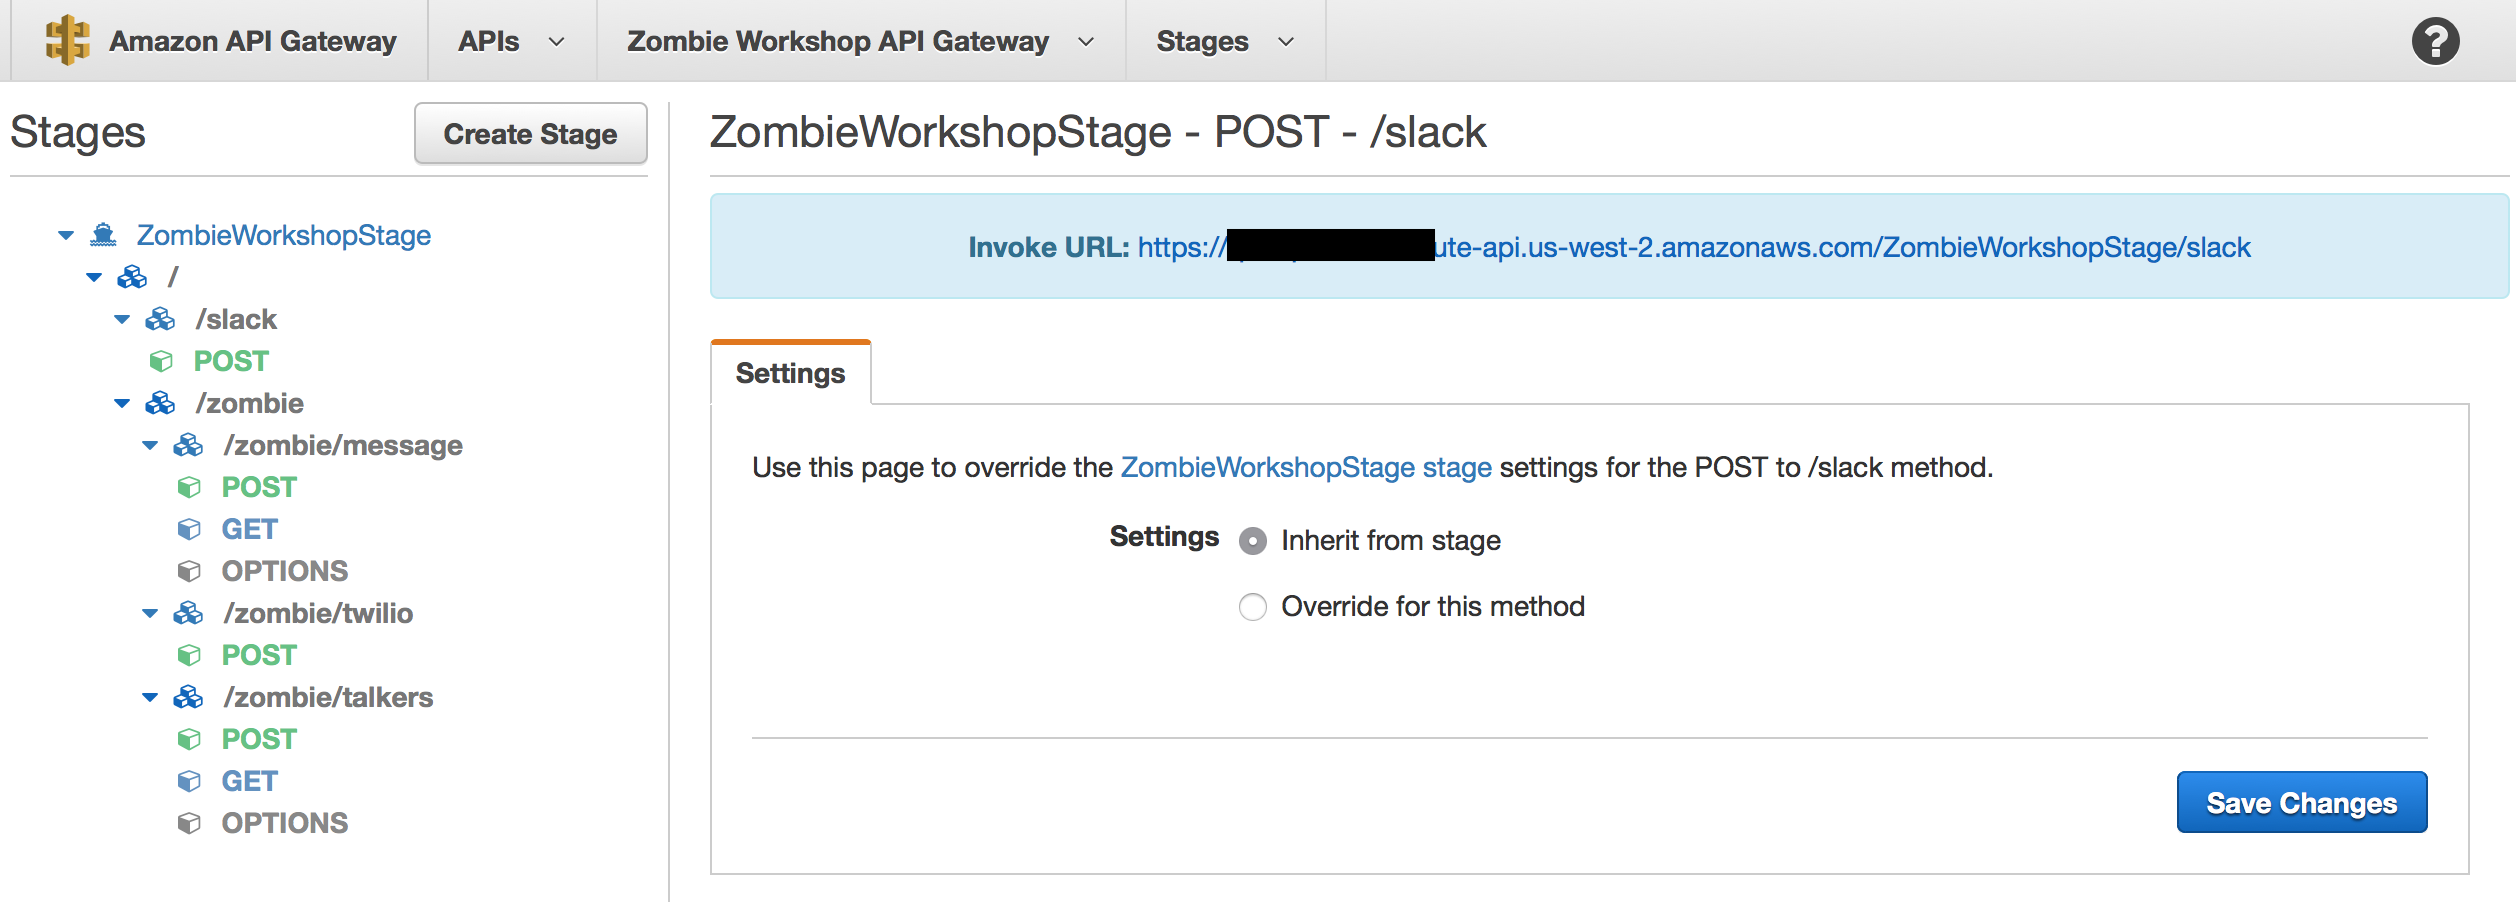
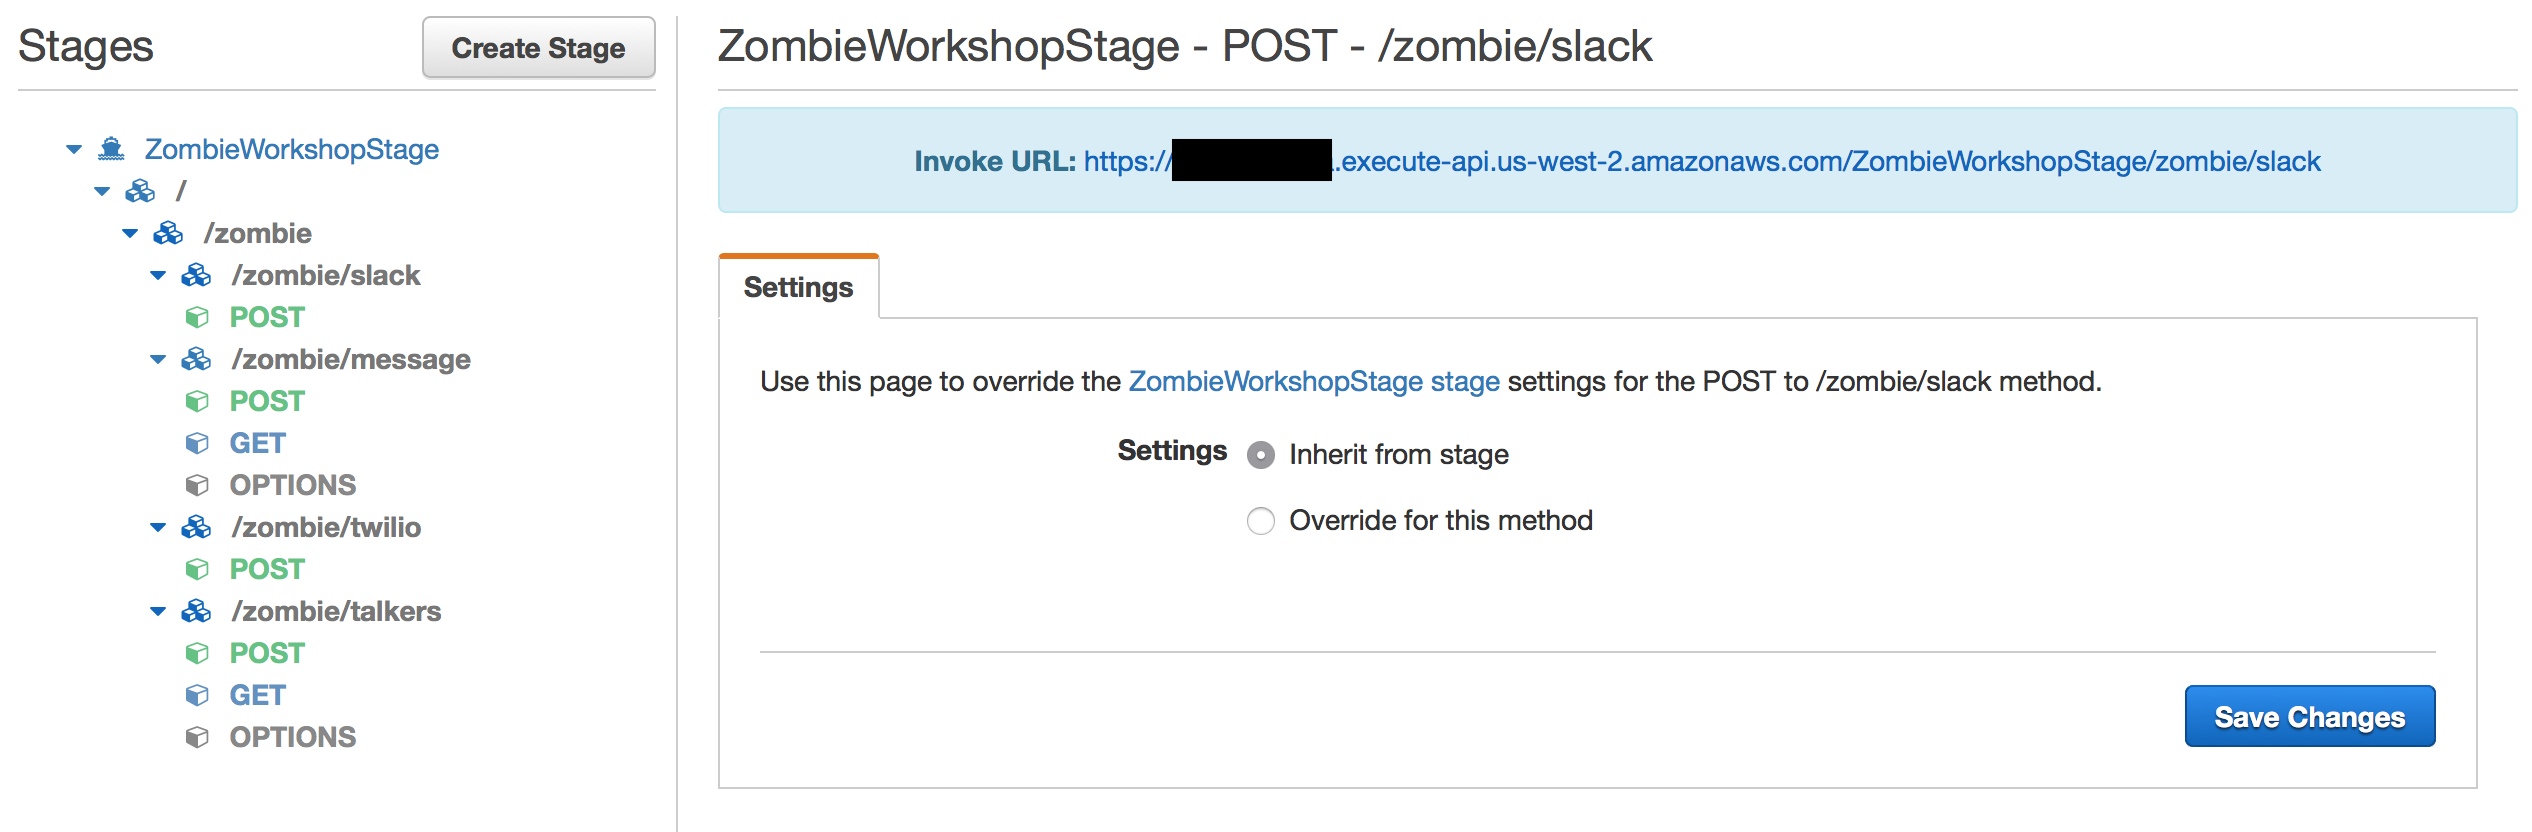
updated slack lab steps with new images and steps

Changed region(s): [[0.0, 0.0, 1.0, 0.9375], [0.279, 0.8125, 0.9921, 0.9688], [0.279, 0.5, 0.806, 0.6875]]

diff --git a/README.md b/README.md
@@ -297,46 +297,44 @@ In this section, you'll create a slack group and wire it up to the Chat Service.
 
 1\. Go to [http://www.slack.com](http://www.slack.com) and create a username, as well as a team.
 
-2\. Once logged into Slack, navigate to [https://slack.com/apps](https://slack.com/apps) and click **Configure** near the top of the page.
+2\. Once logged into Slack, navigate to [https://slack.com/apps](https://slack.com/apps) and click **Build your own** near the top of the page. Then on the next screen, select **Make a Custom Integration**.
 
-3\. On the "Configure" page, select **Custom Integrations** and then **Slack Commands** to create a Slack Command. Slash commands allow you to define a command that will trigger commands to execute. In this case you'll configure your Slash Command to make a POST request to an external URL.
+3\. On the "Custom Integration" page, select **Slack Commands** to create a Slack Command. Slash commands allow you to define a command that will inform Slack to forward your message to an external source with a webhook. In this case you'll configure your Slash Command to make a POST request to an external URL (the URL for your API Gateway endpoint).
 
-4\. On the Slash Commands page, define a command in the **Commands** text box. Insert **/survivors** as your Slack Command.
+4\. On the Slash Commands page, define a command in the **Commands** text box. Insert **/survivors** as your Slack Command. Then select "Add Slash Command Integration" to save it.
 
-5\. Make sure the **Method** section has "POST" selected from the dropdown options. Then scroll to the **Token** section and copy the Token (or generate a new one) to a text file as you'll need it in the following steps. 
+5\. On the Integration Settings page, make sure the **Method** section has "POST" selected from the dropdown options. Then scroll to the **Token** section and copy the Token (or generate a new one) to a text file as you'll need it in the following steps. 
 
 6\. Keep the Slack browser tab open and in another tab navigate to the Lambda service in the AWS Management Console.
 
 7\. Click **Create a Lambda function**. You'll create a Lambda function to parse incoming Slack messages and send them to the Chat Service.
 
-8\. We'll use a blueprint here - in the blueprint filter box, type in **slack** and click the Lambda function titled **slack-echo-command**, which should be a Node.js function.
+8\. Skip past the blueprints page as we will not be using one.
 
-9\. Name the function **SlackService**. **Delete all of the code in the inline edit window.** For this workshop, we've modified the blueprint to do some additional parsing as well as make an HTTPS request to the Chat Service.
+9\. Name the function **SlackService**. Now navigate to the GitHub repo for this workshop, or the location where you downloaded the GitHub files to your local machine.
 
-10\. Open the **SlackService.js** file from the GitHub repo. Copy the entire contents of this js file into the Lambda inline edit window.
+10\. Open the **SlackService.js** file from the GitHub repo, found in the slack folder. Copy the entire contents of this js file into the Lambda inline edit window.
 
-11\. Input the Slack Token string that you copied earlier into function. You should copy the string in the "token" variable replacing the string **INSERT YOUR TOKEN FROM SLACK HERE** with your own token.
+11\. Input the Slack Token string that you copied earlier into the function. You should copy the Token string from Slack into the "token" variable in the Lambda function, replacing the string **INSERT YOUR TOKEN FROM SLACK HERE** with your own token.
 
-12\. In the "post_options" host variable, you will insert the URL to your Chat Service (/message) API Gateway resource so that the HTTPS requests can be sent with the messages from Slack. It should show a value of "INSERT YOUR API GATEWAY URL HERE EXCLUDING THE HTTPS://" for the **host** variable. Please replace this string with the URL of your **/message POST method**. Please be sure to remove the "https://" portion of the URL and the end of the URL "/ZombieWorkshopStage/zombie/message". Your final URL inputted into the code should look something like "xxxxxxxx.execute-api.us-west-2.amazonaws.com". Your code is now configured to check if the token sent with the request matches the token for your Slack integration. If so, it parses the data and makes an HTTPS request to your **/message** endpoint with the message from Slack.
+12\. In the "post_options" host variable, you will insert the URL to your Chat Service (/zombie/message) API Gateway resource so that the HTTPS requests can be sent with the messages from Slack. It should show a value of "INSERT YOUR API GATEWAY URL HERE EXCLUDING THE HTTPS://" for the **host** variable. Replace this string with the URL of your **/message POST method**. Please be sure to remove the "https://" portion of the URL and the end of the URL "/ZombieWorkshopStage/zombie/message". Your final URL inputted into the code should look something like "xxxxxxxx.execute-api.us-west-2.amazonaws.com". Your code is now configured to check if the token sent with the request matches the token for your Slack integration. If so, it parses the data and makes an HTTPS request to your **/message** endpoint with the message from Slack.
 
 13\. Scroll down to the Role dropdown and select **Basic execution role**. On the verification window that appears to confirm the role, click **Allow**. This Lambda function will not interact with any AWS services. It does emit event data to CloudWatch Logs but that permission is provided by default with the basic execution role.
 
-14\. Click **Next**. Now since we are using a Lambda blueprint, the Lambda function creation process will take you through an abbreviated setup of the API Gateway resource that will be associated with this Slack Service function. You should be on a page named **Configure endpoints**.
+14\. Click **Next**.
 
-15\. On the **Configure endpoints** page, change the API Gateway to **Zombie Workshop API Gateway**, the Resource name to **slack**, the Method to **POST**, and the Security to **Open**. The final configuration should match the configurations shown below:
-![Slack API Endpoint Configuration](/Images/Slack-Step15.png)
+15\. On the review page, make sure that everything looks correct.
 
-**We're leaving our API Gateway endpoints open in this workshop. This is to allow survivors (or your teammates and other groups) to help you extend functionality freely. In production we recommend locking down the security of these resources**.
+16\. Click **Create function**. Your Lambda function will be created.
 
-16\. Click **Next** and on the Review page, click **Create function**. Your Lambda function will be created as well as the Slack resource in API Gateway.
+17\. When the function is created, navigate to the API Gateway service in the AWS Management Console. Click into your "Zombie Workshop API Gateway" API. On the left Resources pane, click/highlight the "/zombie" resource so that it is selected and highlighted blue. Then select the "Create Resource" button. For Resource Name, insert **slack** and for Resource Path, insert **slack**. The final resource for your Slack API should be as shown below.
+![Create Slack API Resource](/Images/Slack-Step17.png)
 
-17\. When the function is created, an API endpoint URL should be displayed for you in the "API Endpoints" tab on the Lambda page. Copy that endpoint to a text editor as you'll need it in the following steps.
+18\. Click "Create Resource" to create your slack API resource. For your newly created "/slack" resource, highlight it, then click **Create Method** and select POST from the dropdown. Click the checkmark to create the POST method. On the Setup page, choose an Integration Type of **Lambda Function**, select "us-west-2" for the region dropdown, and type "SlackService" for the name of the Lambda Function. It should autofill your function name. Click **Save**.
 
-18\. Navigate to the API Gateway console and click the POST method for the newly created **/slack** resource.
+19\. Click **Integration Request** for the /slack POST method. We'll create a Mapping Template to convert the incoming query string parameters from Slack into JSON which is the format Lambda requires for parameters. This mapping template is required so that the incoming Slack message can be converted to the right format.
 
-19\. Click **Integration Request** for the /slack POST method. We'll create a Mapping Template to convert the incoming query string parameters from Slack into JSON which is the format Lambda requires for parameters.
-
-20\. Expand the Mapping Templates arrow and click **Add mapping template**. In the Content-Type box, enter **application/x-www-form-urlencoded** and click the little black checkmark to continue. As you did in the Twilio lab, we're going to copy VTL mapping logic to convert the request to JSON. A new section will appear on the right side of the screen called "Input passthrough". Click the pencil icon next to "Input passthrough". In the dropdown that appears, select the **Mapping template** option. 
+20\. Expand the Mapping Templates arrow and click **Add mapping template**. In the Content-Type box, enter **application/x-www-form-urlencoded** and click the little checkmark to continue. As you did in the Twilio lab, we're going to copy VTL mapping logic to convert the request to JSON. A new section will appear on the right side of the screen called "Input passthrough". Click the pencil icon next to "Input passthrough". In the dropdown that appears, select the **Mapping template** option. 
 In the text editor, copy the following into the editor: 
 
 ```
@@ -348,7 +346,7 @@ Click the little checkmark icon to continue. The result should look like the scr
 
 21\. Click the blue **Deploy API** button on the left side of the API Gateway console to deploy your API. In the Deploy API window, select **ZombieWorkshopStage** from the dropdown and click **Deploy**.
 
-22\. On the left pane navigation tree, expand the ZombieWorkshopStage tree. Click the **POST** method for the /slack resource. You should see an Invoke URL appear for that resource as shown below.
+22\. On the left pane navigation tree, expand the ZombieWorkshopStage tree. Click the **POST** method for the **/zombie/slack** resource. You should see an Invoke URL appear for that resource as shown below.
 ![Slack Resource Invoke URL](/Images/Slack-Step22.png) 
 
 23\. Copy the entire Invoke URL. Navigate back to the Slack Command setup page and insert your Slack API Gateway Invoke URL into the "URL" textbox. Make sure to copy the entire url including "HTTPS://". Scroll to the bottom of the Slack Command screen and click **Save Integration**.
